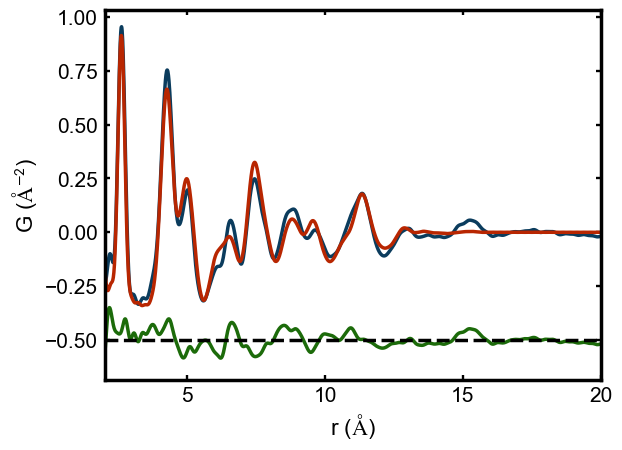
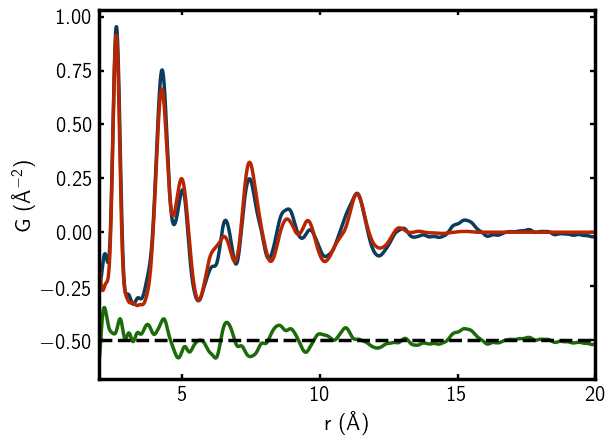
ENH: use latex sans-serif font

Changed region(s): [[0.0618, 0.0, 0.9886, 0.9056], [0.0, 0.3506, 0.0618, 0.5258], [0.5252, 0.9056, 0.6179, 0.9933]]

diff --git a/bg_mpl_stylesheet/bg_mpl_stylesheet.py b/bg_mpl_stylesheet/bg_mpl_stylesheet.py
@@ -1,3 +1,3 @@
 from matplotlib import cycler
 
-bg_mpl_style = {'lines.linewidth': 2.5, 'lines.markeredgewidth': 0.25, 'lines.markersize': 6.0, 'lines.solid_capstyle': 'round', 'font.family': ['arial'], 'font.size': 15.0, 'text.usetex': True, 'mathtext.fontset': 'stixsans', 'axes.edgecolor': 'k', 'axes.linewidth': 2.5, 'axes.titlesize': 14.0, 'axes.labelsize': 16.0, 'axes.labelcolor': 'k', 'axes.prop_cycle': cycler('color', ['#0B3C5D', '#B82601', '#1c6b0a', '#328CC1', '#a8b6c1', '#D9B310', '#984B43', '#76323F', '#626E60', '#AB987A', '#C09F80', '#b0b0b0ff']), 'xtick.top': True, 'xtick.major.width': 1.7, 'xtick.minor.width': 0.5, 'xtick.major.pad': 5.0, 'xtick.color': 'k', 'xtick.labelsize': 15.0, 'xtick.direction': 'in', 'ytick.right': True, 'ytick.major.width': 1.7, 'ytick.minor.width': 0.5, 'ytick.major.pad': 5.0, 'ytick.color': 'k', 'ytick.labelsize': 15.0, 'ytick.direction': 'in', 'grid.color': '#b2b2b2', 'grid.linestyle': '--', 'grid.linewidth': 1.0, 'figure.facecolor': 'w', 'savefig.bbox': 'tight'}
+bg_mpl_style = {'lines.linewidth': 2.5, 'lines.markeredgewidth': 0.25, 'lines.markersize': 6.0, 'lines.solid_capstyle': 'round', 'font.family': ['sans-serif'], 'font.sans-serif': ['cm'], 'font.size': 15.0, 'text.usetex': True, 'mathtext.fontset': 'stixsans', 'text.latex.preamble': [r'\usepackage[cm]{sfmath}'], 'axes.edgecolor': 'k', 'axes.linewidth': 2.5, 'axes.titlesize': 14.0, 'axes.labelsize': 16.0, 'axes.labelcolor': 'k', 'axes.prop_cycle': cycler('color', ['#0B3C5D', '#B82601', '#1c6b0a', '#328CC1', '#a8b6c1', '#D9B310', '#984B43', '#76323F', '#626E60', '#AB987A', '#C09F80', '#b0b0b0ff']), 'xtick.top': True, 'xtick.major.width': 1.7, 'xtick.minor.width': 0.5, 'xtick.major.pad': 5.0, 'xtick.color': 'k', 'xtick.labelsize': 15.0, 'xtick.direction': 'in', 'ytick.right': True, 'ytick.major.width': 1.7, 'ytick.minor.width': 0.5, 'ytick.major.pad': 5.0, 'ytick.color': 'k', 'ytick.labelsize': 15.0, 'ytick.direction': 'in', 'grid.color': '#b2b2b2', 'grid.linestyle': '--', 'grid.linewidth': 1.0, 'figure.facecolor': 'w', 'savefig.bbox': 'tight'}

diff --git a/example/plot.py b/example/plot.py
@@ -19,8 +19,8 @@ ax.plot(r, gdiff + offset)  # Difference
 ax.axhline(y=offset, color='k', linestyle='--')
 
 ax.set_xlim(2.0, 20.0)  # set x-axis lower and upper limits
-ax.set_xlabel('r ($\mathrm{\AA}$)')
-ax.set_ylabel('G ($\mathrm{\AA}$$^{-2}$)')
+ax.set_xlabel("r ($\mathrm{\AA}$)")
+ax.set_ylabel("G ($\mathrm{\AA}$$^{-2}$)")
 
 plt.show()
 # fig.savefig('plot.pdf')

diff --git a/bg_mpl_stylesheet/translate.py b/bg_mpl_stylesheet/translate.py
@@ -1,0 +1,5 @@
+from matplotlib import rc_params_from_file
+
+#this script is for printing the bg_mpl_stylesheet as a python dictionary.
+bg_mpl_style = rc_params_from_file("bg_mpl_stylesheet", use_default_template=False)
+print(dict(bg_mpl_style))
